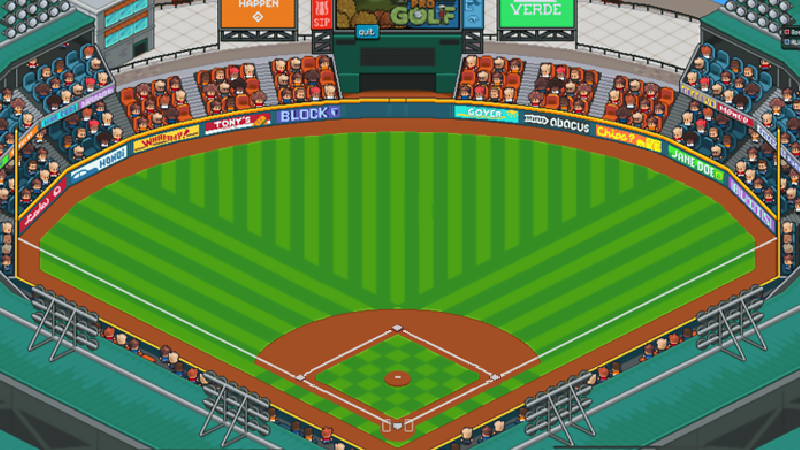
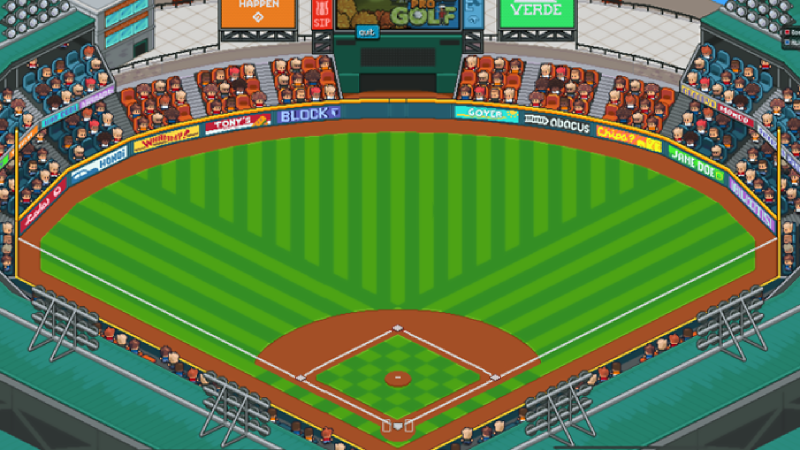
베이스 추가

diff --git a/runner.py b/runner.py
@@ -3,18 +3,22 @@ from pico2d import *
 
 ground_width, ground_height = 800, 450
 open_canvas(ground_width, ground_height)
-
-# 이미지 로드
 ground = load_image('ground_full.png')
+#주자
 running_runner_to_left = load_image('running_runner_left.png')
 running_runner_to_right = load_image('running_runner_right.png')
 idle_runner = load_image('idle_runner_left.png')
+#베이스
+first_base = load_image('base.png')
+second_base = load_image('base.png')
+third_base = load_image('base.png')
+home_base = load_image('home_base.png')
 
 running = True
 
 # 주자 초기 위치
 runner_x = 495
-runner_y = 100
+runner_y = 95
 
 # 마우스 좌표
 move_arrow_x, move_arrow_y = runner_x, runner_y
@@ -32,7 +36,7 @@ start_running = False
 start_runner_idle = False
 
 # 딜레이
-running_delay = 0.15
+running_delay = 0.1
 running_idle_delay = 0.5
 
 
@@ -58,11 +62,18 @@ def draw():
     global runner_frame, runner_idle_frame, start_running, runner_x, runner_y
 
     clear_canvas()
+
     ground.draw(ground_width // 2, ground_height // 2)
+
+    first_base.draw(495, 72, 15, 15)
+    second_base.draw(398, 122, 15, 15)
+    third_base.draw(300, 72, 15, 15)
+    home_base.draw(398, 23, 15, 15)
+
 
     if start_running:
         running_runner_to_left.clip_draw(runner_frame * 45, 0, 45, 45,
-                                          runner_x, runner_y, 45, 45)
+                                          runner_x, runner_y, 35, 35)
         if runner_x < move_arrow_x:
             runner_x += 5
         elif runner_x > move_arrow_x:
@@ -76,7 +87,7 @@ def draw():
     # 달리지 않을 때는 idle 애니메이션 재생
     if not start_running:
         idle_runner.clip_draw(runner_idle_frame * 45, 0, 45, 45,
-                              runner_x, runner_y, 45, 45)
+                              runner_x, runner_y, 35, 35)
 
     update_canvas()
 
